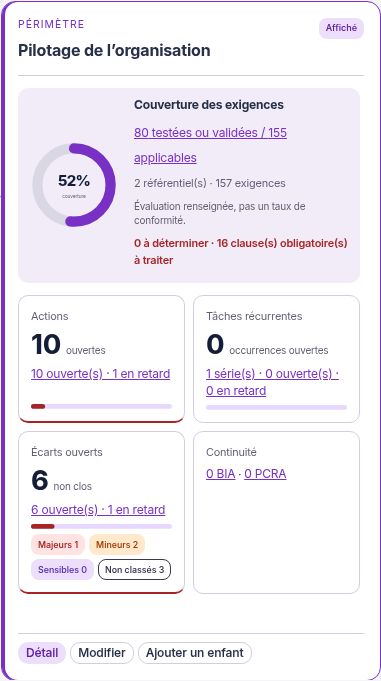
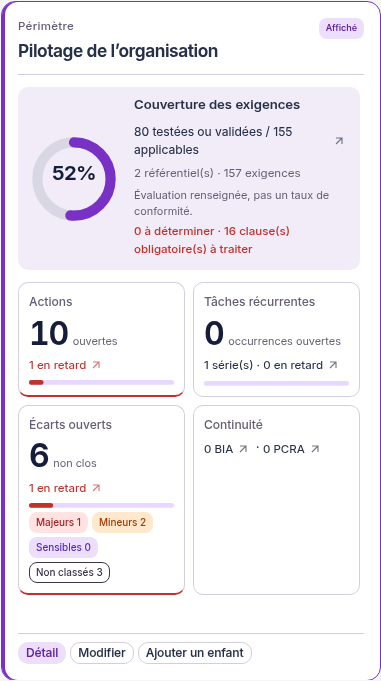
refactor(web): clarifier la typographie des dalles de périmètre
Remplace les liens violets soulignés par une navigation neutre avec flèche
et focus visible, agrandit les chiffres et retire les répétitions visibles.
Conserve les cibles, noms accessibles et détails des compteurs.

Validation : 6 tests ciblés, 4 e2e du graphe, typage, lint, build
et captures clair/sombre avec CSP stricte et contrôles de débordement.

Session : Codex (01a193c1-316c-7677-831f-2f31592aa052)

diff --git a/apps/web/src/pilotage/CartesPerimetres.tsx b/apps/web/src/pilotage/CartesPerimetres.tsx
@@ -108,15 +108,27 @@ function detailCouverture(c: Couverture): ReactNode {
   );
 }
 
+/** Navigation de dalle : aspect neutre, flèche et focus visibles plutôt qu'un lien violet souligné. */
+function LienCompteur({ to, children, libelle }: { to: string; children: ReactNode; libelle?: string }) {
+  return (
+    <Anchor component={Link} to={to} c="inherit" underline="never" className="perimetre-lien" aria-label={libelle}>
+      <span>{children}</span>
+      <svg viewBox="0 0 16 16" width="12" height="12" aria-hidden="true">
+        <path d="M4 12 12 4M4 4h8v8" fill="none" stroke="currentColor" strokeWidth="1.5" />
+      </svg>
+    </Anchor>
+  );
+}
+
 /** Lignes de compteurs d'une carte ; `null` : indisponible (droit manquant ou donnée non mesurable). Un compteur est un lien
     vers la liste du module, dans le même périmètre : les chiffres d'une carte se retrouvent à l'identique dans la liste. */
-function lignesCompteurs(c: CartePerimetre['compteurs'], id: string, liens = true): LigneCompteur[] {
+function lignesCompteurs(c: CartePerimetre['compteurs'], id: string, liens = true, compact = false): LigneCompteur[] {
   const indisponible = 'indisponible';
-  const lien = (section: string, texte: ReactNode) =>
+  const lien = (section: string, texte: ReactNode, court?: string) =>
     liens ? (
-      <Anchor component={Link} to={vers(section, id)} size="xs">
-        {texte}
-      </Anchor>
+      <LienCompteur to={vers(section, id)} libelle={compact && typeof texte === 'string' ? texte : undefined}>
+        {compact && court ? court : texte}
+      </LienCompteur>
     ) : (
       texte
     );
@@ -126,7 +138,7 @@ function lignesCompteurs(c: CartePerimetre['compteurs'], id: string, liens = tru
       chiffre: c.actions?.ouverts,
       sousTitre: 'ouvertes',
       jauge: c.actions ?? undefined,
-      valeur: c.actions ? lien('actions', retard(c.actions)) : indisponible,
+      valeur: c.actions ? lien('actions', retard(c.actions), `${n(c.actions.enRetard)} en retard`) : indisponible,
       alerte: !!c.actions && c.actions.enRetard > 0,
     },
     {
@@ -135,7 +147,11 @@ function lignesCompteurs(c: CartePerimetre['compteurs'], id: string, liens = tru
       sousTitre: 'occurrences ouvertes',
       jauge: c.recurrentes?.occurrences,
       valeur: c.recurrentes
-        ? lien('recurrences', `${n(c.recurrentes.series)} série(s) · ${retard(c.recurrentes.occurrences)}`)
+        ? lien(
+            'recurrences',
+            `${n(c.recurrentes.series)} série(s) · ${retard(c.recurrentes.occurrences)}`,
+            `${n(c.recurrentes.series)} série(s) · ${n(c.recurrentes.occurrences.enRetard)} en retard`,
+          )
         : indisponible,
       alerte: !!c.recurrentes && c.recurrentes.occurrences.enRetard > 0,
     },
@@ -144,7 +160,7 @@ function lignesCompteurs(c: CartePerimetre['compteurs'], id: string, liens = tru
       chiffre: c.ecarts?.ouverts,
       sousTitre: 'non clos',
       jauge: c.ecarts ?? undefined,
-      valeur: c.ecarts ? lien('amelioration', retard(c.ecarts)) : indisponible,
+      valeur: c.ecarts ? lien('amelioration', retard(c.ecarts), `${n(c.ecarts.enRetard)} en retard`) : indisponible,
       alerte: !!c.ecarts && c.ecarts.enRetard > 0,
       detail: c.ecarts && (
         <Group gap="2xs" wrap="wrap" role="group" aria-label="Écarts ouverts par classification">
@@ -246,9 +262,9 @@ function CouvertureCarte({ couverture, id }: { couverture: Couverture | null; id
       />
       <div>
         <strong>Couverture des exigences</strong>
-        <Anchor component={Link} to={vers('couverture', id)} size="xs">
+        <LienCompteur to={vers('couverture', id)}>
           {n(couverture.testees)} testées ou validées / {n(couverture.applicables)} applicables
-        </Anchor>
+        </LienCompteur>
         <p>
           {n(couverture.referentiels)} référentiel(s) · {n(couverture.exigences)} exigences
         </p>
@@ -421,7 +437,7 @@ export function CartesPerimetres({
                       {LIBELLES_NIVEAU[carte.entityKind as NiveauPerimetre] ?? carte.entityKind}
                       {carte.nature ? ` · ${carte.nature}` : ''}
                     </Text>
-                    <Text fw={700} lineClamp={2} title={carte.name}>
+                    <Text fw={650} lineClamp={2} title={carte.name} className="perimetre-titre">
                       {carte.name}
                     </Text>
                   </div>
@@ -439,7 +455,7 @@ export function CartesPerimetres({
                 >
                   <CouvertureCarte couverture={carte.compteurs.couverture} id={carte.id} />
                   <dl className="graphe-compteurs perimetre-indicateurs">
-                    {lignesCompteurs(carte.compteurs, carte.id)
+                    {lignesCompteurs(carte.compteurs, carte.id, true, true)
                       .filter((l) => l.libelle !== 'Couverture')
                       .map((l) => (
                         <div key={l.libelle} className="perimetre-indicateur" data-alerte={l.alerte || undefined}>

diff --git a/packages/ui/src/neon-perimetres.css b/packages/ui/src/neon-perimetres.css
@@ -76,7 +76,7 @@
 }
 .perimetre-couverture p {
   font-size: 0.68rem;
-  margin: 0.4rem 0;
+  margin: 0.25rem 0;
   color: var(--mantine-color-dimmed);
 }
 .perimetre-couverture small {
@@ -109,9 +109,9 @@
   flex-direction: column;
   justify-content: flex-start;
   align-items: stretch;
-  gap: 0.35rem;
+  gap: 0.25rem;
   min-width: 0;
-  padding: var(--mantine-spacing-sm);
+  padding: 0.625rem;
   border: var(--suivi-trait-l) solid var(--suivi-trait);
   border-radius: var(--mantine-radius-md);
 }
@@ -261,4 +261,119 @@
    Le tracé de couverture reste visible dans le graphe, avec le même arc et un accent contrasté. */
 .perimetre-dalle .perimetre-couverture .neon-ring-valeur {
   stroke: var(--neon-accent);
+}
+
+/* Typographie des dalles : chiffres nets, textes neutres et navigation signalée par une flèche. */
+.perimetre-dalle {
+  font-family: var(--mantine-font-family);
+  letter-spacing: normal;
+}
+.perimetre-entete .perimetre-titre {
+  font-size: 1.08rem;
+  line-height: 1.3;
+  font-weight: 650;
+  letter-spacing: -0.025em;
+}
+.perimetre-sur-titre {
+  color: var(--mantine-color-dimmed);
+  font-size: 0.72rem;
+  font-weight: 500;
+  text-transform: none;
+  letter-spacing: 0.025em;
+}
+.perimetre-couverture strong {
+  font-size: 0.82rem;
+  line-height: 1.4;
+  font-weight: 600;
+}
+.perimetre-couverture p {
+  font-size: 0.72rem;
+  line-height: 1.5;
+}
+.perimetre-couverture small {
+  font-size: 0.68rem;
+}
+.perimetre-couverture .neon-ring-centre {
+  font-size: 34px;
+  font-weight: 650;
+  letter-spacing: -1px;
+}
+.perimetre-couverture .neon-axe {
+  display: none;
+}
+.perimetre-lien {
+  display: inline-flex;
+  align-items: center;
+  gap: 0.35em;
+  max-width: 100%;
+  padding: 0.18em 0.3em;
+  margin-left: -0.3em;
+  border-radius: var(--mantine-radius-xs);
+  color: inherit;
+  font-family: inherit;
+  font-size: 0.75rem;
+  line-height: 1.5;
+  font-weight: 450;
+  text-decoration: none;
+  transition: background var(--suivi-motion);
+}
+.perimetre-lien > span {
+  min-width: 0;
+}
+.perimetre-lien > svg {
+  flex: none;
+  opacity: 0.65;
+}
+.perimetre-lien:hover {
+  background: var(--neon-doux);
+  color: var(--neon-titre);
+  text-decoration: none;
+}
+.perimetre-lien:focus-visible {
+  outline: var(--suivi-trait-focus) solid var(--neon-accent);
+  outline-offset: var(--suivi-trait-focus);
+}
+.perimetre-indicateurs .perimetre-indicateur dt {
+  font-size: 0.75rem;
+  font-weight: 500;
+}
+.perimetre-chiffre b {
+  font-size: 2rem;
+  font-weight: 650;
+  letter-spacing: -0.04em;
+  font-variant-numeric: tabular-nums;
+}
+.perimetre-chiffre small {
+  font-size: 0.68rem;
+}
+.perimetre-indicateurs .perimetre-indicateur dd {
+  font-size: 0.75rem;
+}
+.perimetre-indicateurs .perimetre-indicateur .perimetre-lien {
+  font-size: 0.72rem;
+}
+.perimetre-indicateurs .mantine-Badge-root {
+  font-size: 0.62rem;
+  font-weight: 500;
+  letter-spacing: normal;
+  text-transform: none;
+}
+.perimetre-couverture .graphe-alerte {
+  color: var(--carte-rouge-accent);
+  font-weight: 500;
+}
+.perimetre-indicateurs .graphe-alerte {
+  color: var(--carte-rouge-accent);
+  font-weight: 450;
+}
+.perimetre-retard-valeur {
+  fill: var(--carte-rouge-accent);
+}
+.perimetre-indicateurs .perimetre-indicateur[data-alerte] {
+  border-bottom-color: var(--carte-rouge-accent);
+}
+@media (prefers-reduced-motion: reduce) {
+  .perimetre-lien {
+    transition: none;
+  }
 }

diff --git a/tests/e2e/specs/zzzzzzzzzzzzzzzzzzzzzzzzzz-cartes-perimetres.spec.ts b/tests/e2e/specs/zzzzzzzzzzzzzzzzzzzzzzzzzz-cartes-perimetres.spec.ts
@@ -52,7 +52,7 @@ test('Graphe des périmètres : compteurs de la carte et création d’un enfant
     await page.getByText('Graphe', { exact: true }).click();
     const carte = page.getByRole('group', { name: `Périmètre ${parent}` });
     await expect(carte).toBeVisible();
-    await expect(carte.getByText('1 ouverte(s) · 1 en retard').first()).toBeVisible();
+    await expect(carte.getByRole('link', { name: '1 ouverte(s) · 1 en retard', exact: true }).first()).toBeVisible();
     // Aucun référentiel activé : la conformité n'est pas mesurable, elle n'est pas affichée comme 0 %.
     await expect(carte.getByText('indisponible')).toBeVisible();
 

diff --git a/docs/refonte-neon/DALLES-PERIMETRES.md b/docs/refonte-neon/DALLES-PERIMETRES.md
@@ -38,3 +38,11 @@ Captures de l'instance de recette et de ses données fictives ; présentation pr
 | ![Dalle claire](captures-perimetres/dalle-claire.png) | ![Dalle sombre](captures-perimetres/dalle-sombre.png) |
 
 [Vue du graphe](captures-perimetres/graphe-clair.png) · [Détail sur mobile](captures-perimetres/detail-mobile.png).
+
+## Ajustement typographique après retour visuel
+
+Les compteurs n'utilisent plus le soulignement et la couleur violette des liens documentaires. Ils gardent leur navigation avec une flèche permanente, un survol de surface et un focus clavier visible. Cette exception est locale aux dalles et à leur panneau de détail ; le thème global des liens reste inchangé.
+
+Hiérarchie Inter retravaillée : titre et libellés plus lisibles, chiffres agrandis et graisses moins fortes. Les dalles ne répètent plus le nombre ouvert dans la ligne du retard : le chiffre principal porte les ouverts, la ligne affiche les retards et, pour les récurrences, le nombre de séries. Le nom accessible du lien garde la formule complète, et le panneau de détail garde les valeurs complètes.
+
+Le test e2e du compteur vérifie désormais le lien par son nom accessible complet, plutôt que par une répétition visible de la phrase. La valeur contrôlée et la cible restent les mêmes. Quatre tests e2e du graphe, dont navigation vers la liste filtrée et contrôle axe, réussis après cette modification ; six tests ciblés charte/disposition, typage, lint et build réussis. Captures renouvelées dans les deux thèmes.

diff --git a/HANDOVER.md b/HANDOVER.md
@@ -1,3 +1,5 @@
+> Retour visuel du 01/11/2026 : typographie des dalles Périmètres ajustée, compteurs neutres non soulignés et flèches de navigation, captures actualisées pour validation.
+
 > 01/11/2026 : [dalles Périmètres en mode Graphe](docs/refonte-neon/DALLES-PERIMETRES.md) retravaillées, compteurs et actions conservés ; quatre tests e2e du graphe réussis.
 
 > Complément graphique : [graphiques et menus du prototype intégrés](docs/refonte-neon/PROTOTYPE-INTEGRE.md), sur la branche Codex ; RETEX inchangé.
